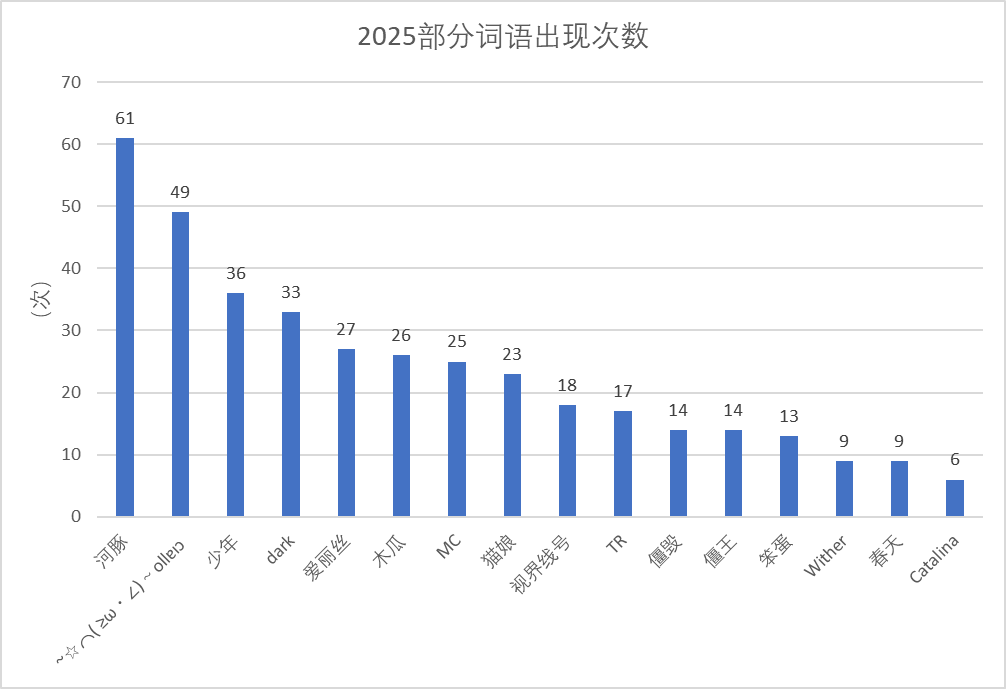
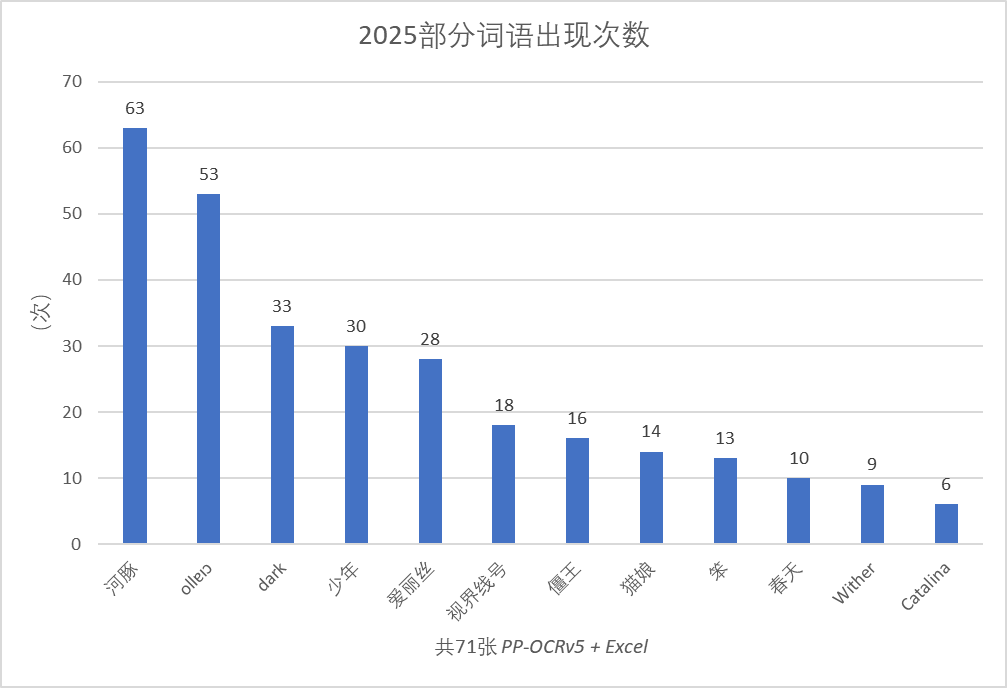
upd +8

diff --git a/README.md b/README.md
@@ -21,11 +21,7 @@
 
 ---
 ## 柱状图
-<img src="2025/2025部分词语出现次数.png" style="width: 30%; height: auto;">
-
-***仅统计"2025\images_2025"下的所有图片。***
-
-***（PP-OCRv5 + Excel）***
+<img src="2025/2025部分词语出现次数.png" style="width: 30%; height: auto;"> <img src="2026/2026部分词语出现次数_暂时.png" style="width: 30%; height: auto;">
 
 ---
 ## 本年